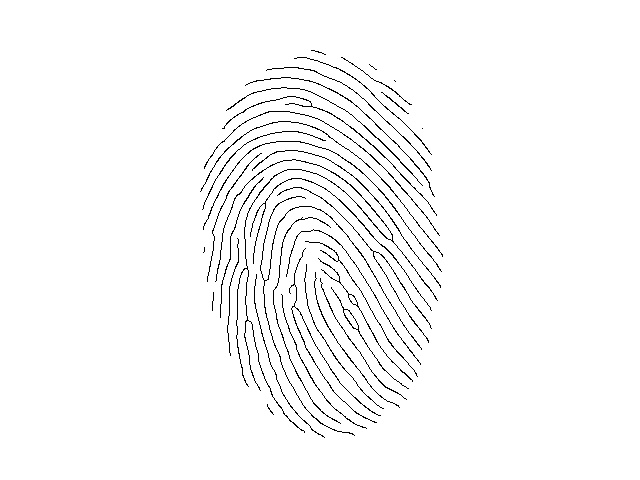
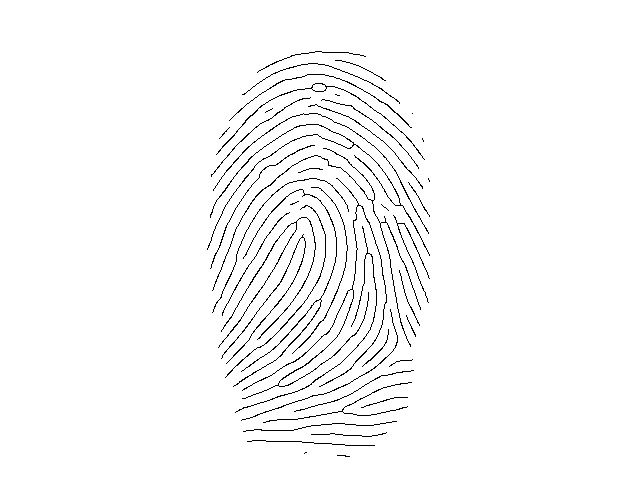
Added Openning and Closing

Changed region(s): [[0.3125, 0.0938, 0.6875, 0.9375]]

diff --git a/test_file.py b/test_file.py
@@ -7,6 +7,7 @@ import helper
 from rotation import correctrotation
 import constants as const
 from utils import shiftcorrection
+import scipy
 
 def get_most_similar(fv1,fv2):
 
@@ -101,8 +102,11 @@ class MyTest:
 				else: image[i][j] = 0
 
 		print("done")
+		image = scipy.ndimage.binary_opening(image, structure=np.ones((3,3))).astype(np.int)
+		image = scipy.ndimage.binary_closing(image, structure=np.ones((3,3))).astype(np.int)
+
 		cop = image.copy()
-		#cv2.imwrite("intermediate.jpg", image*255)
+		cv2.imwrite("intermediate-y.jpg", image*255)
 		z = ZhangSuen(image)
 		img = z.performThinning()
 		thinned = img.copy()
@@ -146,8 +150,10 @@ class MyTest:
 				else: image[i][j] = 0
 
 		print("done")
+		image = scipy.ndimage.binary_opening(image, structure=np.ones((3,3))).astype(np.int)
+		image = scipy.ndimage.binary_closing(image, structure=np.ones((3,3))).astype(np.int)
 		cop = image.copy()
-		#cv2.imwrite("intermediate.jpg", image*255)
+		cv2.imwrite("intermediate-t.jpg", image*255)
 		z = ZhangSuen(image)
 		img = z.performThinning()
 		thinned = img.copy()

diff --git a/test.py b/test.py
@@ -9,7 +9,7 @@ from test_file import MyTest, get_most_similar, match_level
 # image = cv2.imread("enh.jpg", 0)
 
 image = cv2.imread("DB1_B/103_6.tif",0)
-img2 = cv2.imread("DB1_B/102_7.tif",0)
+img2 = cv2.imread("DB1_B/103_7.tif",0)
 # image, m, orientations = preprocess(image)
 
 # for i in range(image.shape[0]):

diff --git a/preprocess.py b/preprocess.py
@@ -22,7 +22,7 @@ def preprocess(image):
 	freq = frequencies*mask
 
 	# Gabor Filter
-	image = ridge_filter(image, orientations, freq, 0.65, 0.65);  
+	image = ridge_filter(image, orientations, freq, 0.7, 0.7);  
 	image = (image < -3).astype(int)
 
 	return image*255, mask, orientations

diff --git a/ridge_filter.py b/ridge_filter.py
@@ -51,8 +51,11 @@ Created on Fri Apr 22 03:15:03 2016
 
 import numpy as np
 import scipy;
+
+
 def ridge_filter(im, orient, freq, kx, ky):
-    angleInc = 3;
+    angleInc = 1;
+
     im = np.double(im);
     rows,cols = im.shape;
     newim = np.zeros((rows,cols));
